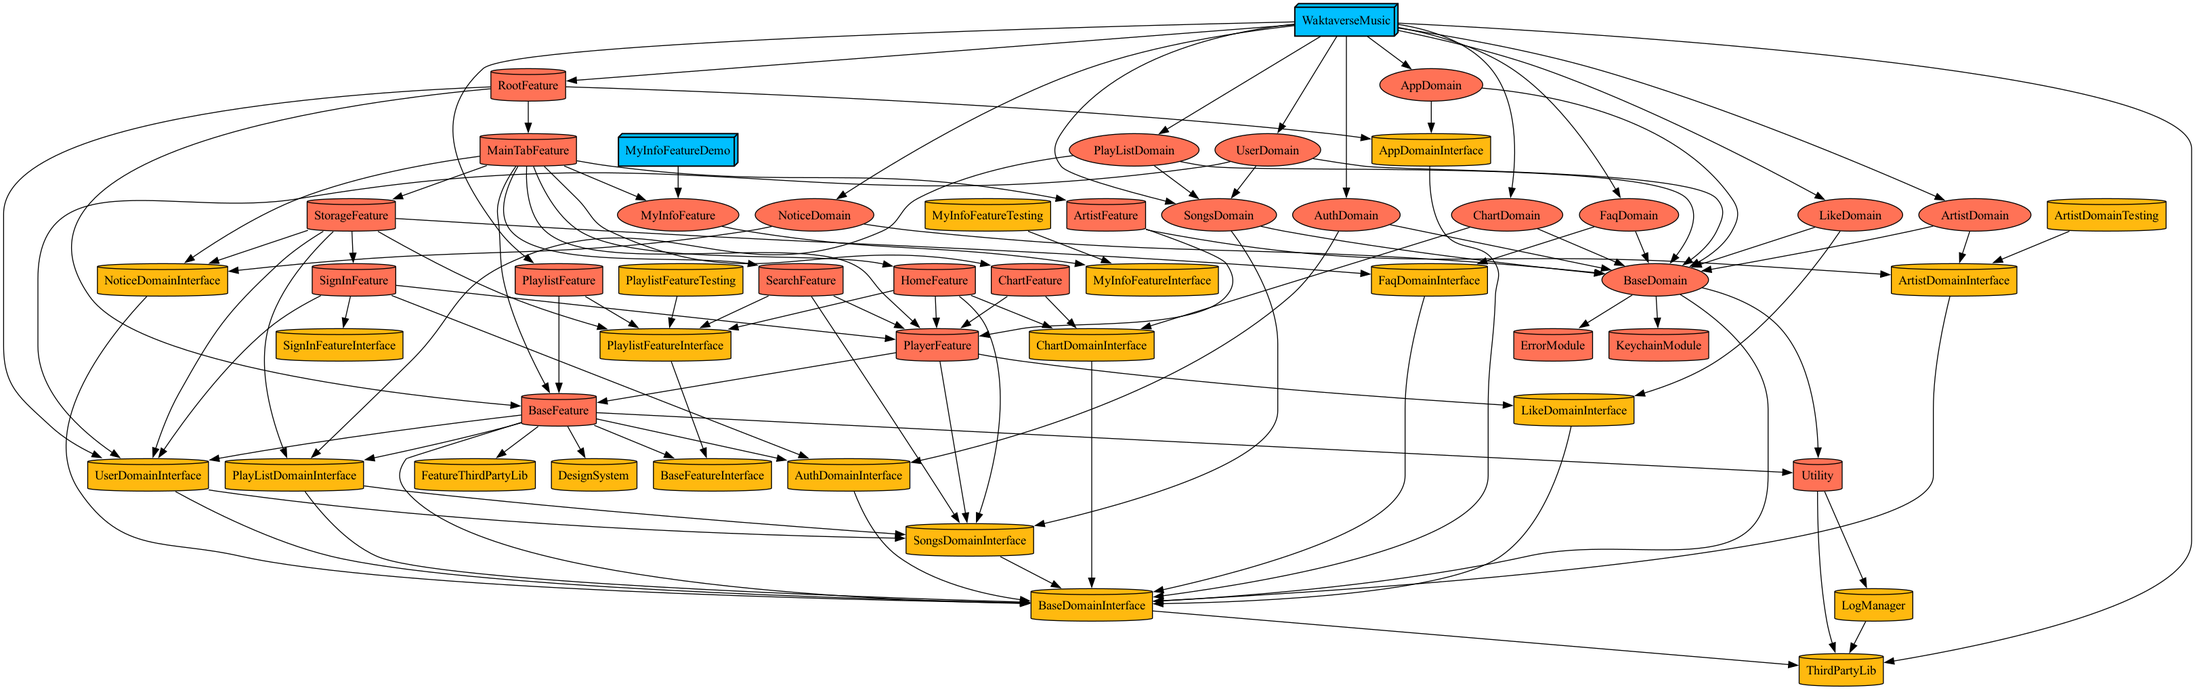
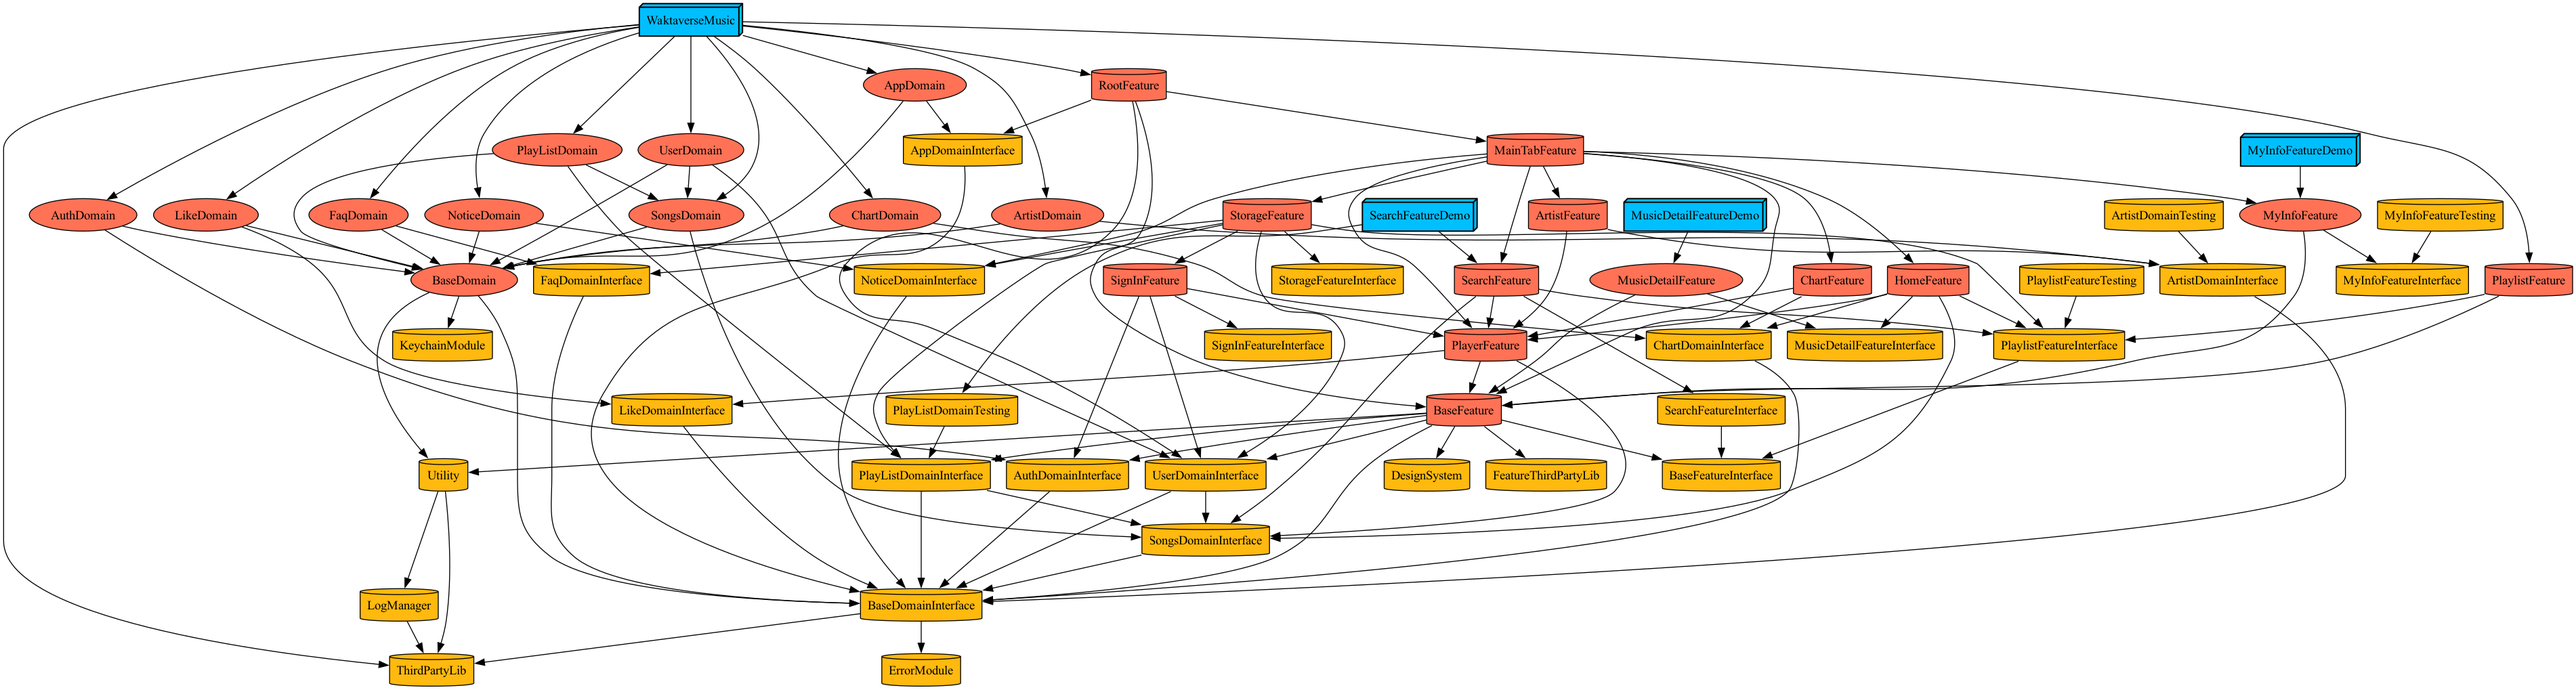
:art: :: 에러 모듈을 베이스 도메인 인터페이스에 연결합니다.

diff --git a/Projects/Features/SearchFeature/Sources/ViewControllers/WakmusicRecommendViewController.swift b/Projects/Features/SearchFeature/Sources/ViewControllers/WakmusicRecommendViewController.swift
@@ -4,17 +4,18 @@ import UIKit
 import Utility
 
 final class WakmusicRecommendViewController: BaseReactorViewController<WakmusicRecommendReactor> {
-    private let wmNavigationbarView = WMNavigationBarView()
-
+    private let wmNavigationbarView = WMNavigationBarView().then{
+        $0.setTitle("Hello")
+    }
     private let dismissButton = UIButton().then {
         let dismissImage = DesignSystemAsset.Navigation.back.image
-        //  .withTintColor(DesignSystemAsset.PrimaryColorV2.white.color, renderingMode: .alwaysOriginal)
         $0.setImage(dismissImage, for: .normal)
     }
 
     override func viewDidLoad() {
         super.viewDidLoad()
         self.view.backgroundColor = .white
+        reactor?.action.onNext(.viewDidLoad)
     }
 
     override func addView() {
@@ -32,4 +33,12 @@ final class WakmusicRecommendViewController: BaseReactorViewController<WakmusicR
         }
         wmNavigationbarView.setLeftViews([dismissButton])
     }
+    
+    override func bindAction(reactor: WakmusicRecommendReactor) {
+        
+        let sharedState = reactor.state.share(replay: 1)
+        
+    }
+    
+    
 }

diff --git a/Projects/Domains/BaseDomain/Project.swift b/Projects/Domains/BaseDomain/Project.swift
@@ -8,14 +8,14 @@ let project = Project.module(
         .interface(
             module: .domain(.BaseDomain),
             dependencies: [
-                .Project.Module.ThirdPartyLib
+                .Project.Module.ThirdPartyLib,
+                .Project.Module.ErrorModule,
             ]
         ),
         .implements(
             module: .domain(.BaseDomain),
             dependencies: [
                 .Project.Module.Utility,
-                .Project.Module.ErrorModule,
                 .Project.Module.KeychainModule,
                 .domain(target: .BaseDomain, type: .interface)
             ]
